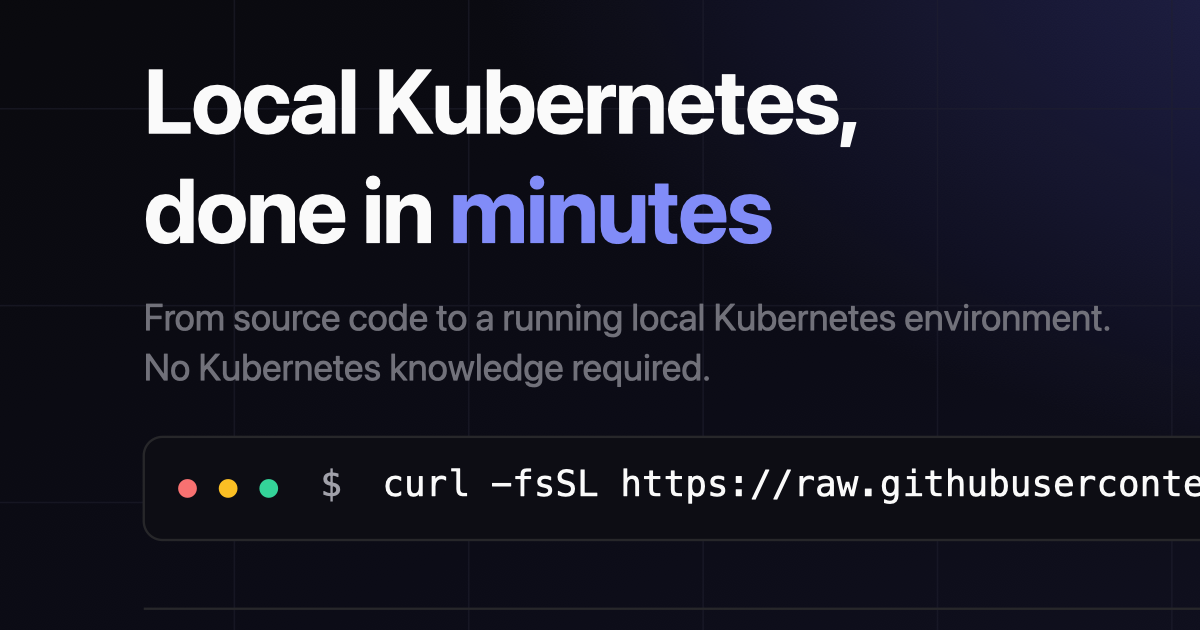
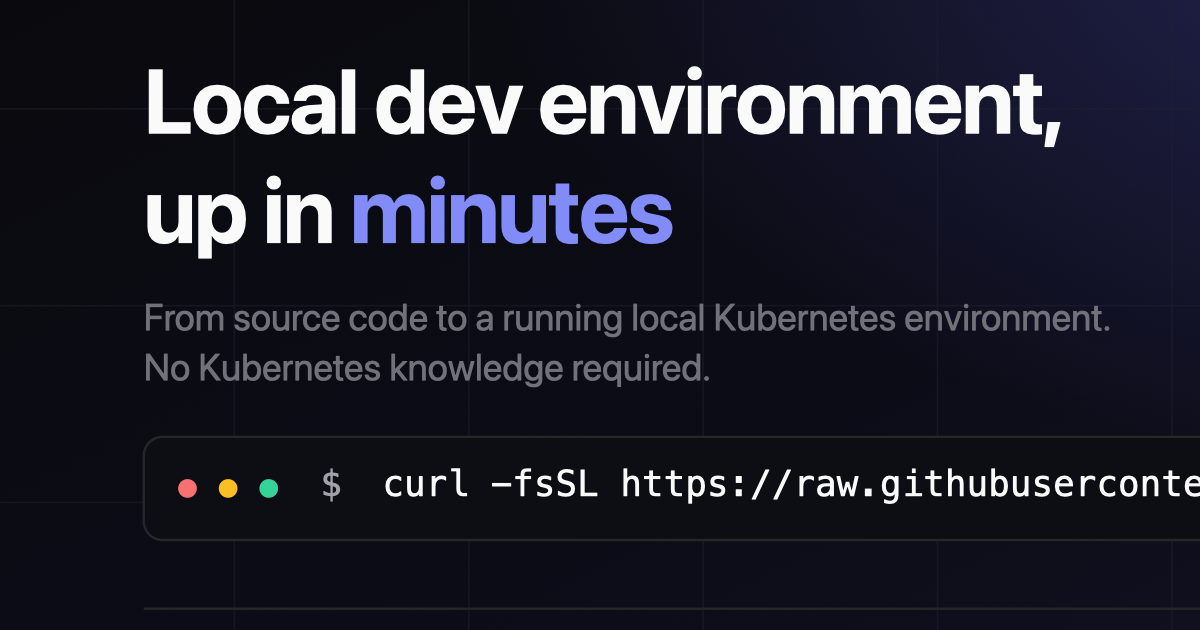
fix: improve copies and presence

Changed region(s): [[0.3083, 0.0905, 0.8942, 0.2413], [0.1233, 0.2714, 0.6475, 0.4222]]

diff --git a/docs/index.html b/docs/index.html
@@ -4,29 +4,29 @@
 <head>
   <meta charset="UTF-8">
   <meta name="viewport" content="width=device-width, initial-scale=1.0">
-  <title>Kustron — Local Kubernetes, done in minutes</title>
+  <title>Kustron | Local dev environment, up in minutes</title>
   <link rel="canonical" href="https://itsmunim.github.io/kustron/">
   <meta name="description"
-    content="Go from source code to a running local Kubernetes environment in minutes. No Kubernetes knowledge required.">
+    content="Define your apps in one file. Kustron spins up a local Kubernetes cluster, builds, and deploys them. No Kubernetes knowledge required.">
   <meta name="theme-color" content="#09090b">
 
   <!-- Open Graph (Facebook, LinkedIn, Discord, iMessage) -->
   <meta property="og:type" content="website">
   <meta property="og:site_name" content="Kustron">
   <meta property="og:url" content="https://itsmunim.github.io/kustron/">
-  <meta property="og:title" content="Kustron — Local Kubernetes, done in minutes">
-  <meta property="og:description" content="Go from source code to a running local Kubernetes environment in minutes. No Kubernetes knowledge required.">
+  <meta property="og:title" content="Kustron | Local dev environment, up in minutes">
+  <meta property="og:description" content="Define your apps in one file. Kustron spins up a local Kubernetes cluster, builds, and deploys them. No Kubernetes knowledge required.">
   <meta property="og:image" content="https://itsmunim.github.io/kustron/og-preview.jpg">
   <meta property="og:image:width" content="1200">
   <meta property="og:image:height" content="630">
-  <meta property="og:image:alt" content="Kustron — Local Kubernetes, done in minutes">
+  <meta property="og:image:alt" content="Kustron | Local dev environment, up in minutes">
 
   <!-- Twitter / X -->
   <meta name="twitter:card" content="summary_large_image">
-  <meta name="twitter:title" content="Kustron — Local Kubernetes, done in minutes">
-  <meta name="twitter:description" content="Go from source code to a running local Kubernetes environment in minutes. No Kubernetes knowledge required.">
+  <meta name="twitter:title" content="Kustron | Local dev environment, up in minutes">
+  <meta name="twitter:description" content="Define your apps in one file. Kustron spins up a local Kubernetes cluster, builds, and deploys them. No Kubernetes knowledge required.">
   <meta name="twitter:image" content="https://itsmunim.github.io/kustron/og-preview.jpg">
-  <meta name="twitter:image:alt" content="Kustron — Local Kubernetes, done in minutes">
+  <meta name="twitter:image:alt" content="Kustron | Local dev environment, up in minutes">
 
   <link rel="icon" type="image/svg+xml" href="favicon.svg">
   <link rel="apple-touch-icon" href="apple-touch-icon.png">
@@ -40,7 +40,7 @@
     "name": "Kustron",
     "applicationCategory": "DeveloperApplication",
     "operatingSystem": "macOS, Linux",
-    "description": "Go from source code to a running local Kubernetes environment in minutes. No Kubernetes knowledge required.",
+    "description": "Define your apps in one file. Kustron spins up a local Kubernetes cluster, builds, and deploys them. No Kubernetes knowledge required.",
     "url": "https://itsmunim.github.io/kustron/",
     "image": "https://itsmunim.github.io/kustron/og-preview.jpg",
     "offers": {
@@ -264,19 +264,6 @@
       border-color: var(--green);
     }
 
-    .hero-note {
-      font-size: 13px;
-      color: var(--muted);
-    }
-
-    .hero-note a {
-      color: var(--muted);
-      text-decoration: underline;
-    }
-
-    .hero-note a:hover {
-      color: var(--accent);
-    }
 
     /* ── Sections ── */
     section {
@@ -891,11 +878,10 @@
         <circle cx="12" cy="12" r="10" />
         <path d="M12 8v4l3 3" />
       </svg>
-      From zero to running in minutes
+      Works with Podman &amp; Docker
     </div>
     <h1>Local dev environment,<br>up in minutes.</h1>
-    <p>Describe single or multiple apps in one file. Kustron handles the rest — local k8s cluster, registry, build,
-      deploy.</p>
+    <p>Define your apps in one file. Kustron handles the rest: local cluster, registry, build, deploy.</p>
 
     <div>
       <div class="install-block">
@@ -905,11 +891,6 @@
       </div>
     </div>
 
-    <p class="hero-note">
-      Downloads <code>install.sh</code> for you to review, then run <code>./install.sh</code> — it asks before installing anything:
-      container runtime (podman / OrbStack / Docker Desktop), <a href="https://k3d.io" target="_blank" rel="noopener">k3d</a>, kubectl,
-      railpack, helm, and git. No Kubernetes knowledge required.
-    </p>
   </div>
 
   <hr class="divider">
@@ -918,9 +899,8 @@
   <section>
     <div class="section-inner">
       <div class="section-label">How it works</div>
-      <h2>Four commands. Real dev environment.</h2>
-      <p class="section-sub">Kustron manages a local k3d cluster with a built-in container registry. You define what to
-        run. It handles the rest.</p>
+      <h2>A real dev environment in four commands.</h2>
+      <p class="section-sub">Kustron runs a local k3d cluster with its own registry. You define what to run, it does the heavy lifting.</p>
 
       <div class="steps">
         <div class="step">
@@ -957,10 +937,8 @@
   <section>
     <div class="section-inner">
       <div class="section-label">kustron-env.yaml</div>
-      <h2>One file. Your whole environment.</h2>
-      <p class="section-sub">Apps discover each other by name. Exposed apps are available at <code
-          style="font-family: 'JetBrains Mono', monospace; font-size: 14px; color: var(--accent)">localhost:&lt;port&gt;</code>.
-      </p>
+      <h2>Your whole environment in one file.</h2>
+      <p class="section-sub">Apps find each other by name. Exposed apps are reachable at the cluster node IP.</p>
 
       <div class="yaml-window">
         <div class="yaml-titlebar">
@@ -979,7 +957,7 @@
             - name: api
               source: ./services/api      # or: git@github.com:org/repo.git
               port: 3000
-              exposed: true               # reachable at localhost:3000
+              exposed: true               # reachable at the k3d node IP
               ha: true                    # min 2 replicas, autoscales to 5
               env:
                 NODE_ENV: production
@@ -1054,7 +1032,7 @@
   <section>
     <div class="section-inner">
       <div class="section-label">Commands</div>
-      <h2>Everything you need. Nothing you don't.</h2>
+      <h2>The commands you'll actually use.</h2>
 
       <table class="cmds-table">
         <tr>
@@ -1068,7 +1046,7 @@
         <tr>
           <td><code class="cmd-code"><span class="kw">kustron</span> env up</code></td>
           <td><span class="cmd-desc">Bring up the cluster and deploy all apps from <code>kustron-env.yaml</code>.
-              Idempotent — safe to re-run.</span></td>
+              Idempotent, safe to re-run.</span></td>
         </tr>
         <tr>
           <td><code class="cmd-code"><span class="kw">kustron</span> env reload</code></td>
@@ -1186,10 +1164,8 @@
   <section>
     <div class="section-inner">
       <div class="section-label">Beyond localhost</div>
-      <h2>One VM. A real live environment.</h2>
-      <p class="section-sub">Kustron isn't just for local development. Spin it up on any cloud VM and expose your whole
-        stack — APIs, frontends, databases — to the real internet. No cluster management. No cloud-native complexity.
-      </p>
+      <h2>Your whole stack, live on one VM.</h2>
+      <p class="section-sub">Not just for local dev. Run it on any cloud VM and your stack, APIs, frontends, databases, is on the real internet. No cluster management, no k8s babysitting.</p>
 
       <div class="vm-layout">
         <div class="vm-steps">
@@ -1197,7 +1173,7 @@
             <div class="vm-step-num">1</div>
             <div class="vm-step-body">
               <h4>Get a VM</h4>
-              <p>Any Linux instance works — EC2, DigitalOcean Droplet, Hetzner Cloud, Linode. Even a $6/month box is
+              <p>Any Linux instance works: EC2, DigitalOcean Droplet, Hetzner Cloud, Linode. Even a $6/month box is
                 enough for a real multi-service stack.</p>
             </div>
           </div>
@@ -1205,7 +1181,7 @@
             <div class="vm-step-num">2</div>
             <div class="vm-step-body">
               <h4>Install prereqs &amp; add your SSH key</h4>
-              <p>Install Docker, k3d, kubectl, and kustron. Add your GitHub (or GitLab) SSH key so kustron can pull
+              <p>Install the container runtime (Docker or podman), k3d, kubectl, and kustron. Add your GitHub (or GitLab) SSH key so kustron can pull
                 private repos directly on the instance.</p>
             </div>
           </div>
@@ -1223,14 +1199,14 @@
             <div class="vm-step-num">4</div>
             <div class="vm-step-body">
               <h4>Bring it up</h4>
-              <p>One command. Cluster, registry, images, deployments — all at once.</p>
+              <p>One command: cluster, registry, images, deployments, all at once.</p>
             </div>
           </div>
           <div class="vm-step">
             <div class="vm-step-num">5</div>
             <div class="vm-step-body">
               <h4>Open the firewall &amp; share the URL</h4>
-              <p>Allow the exposed ports in your security group (AWS) or firewall rules. That's it — your stack is live
+              <p>Allow the exposed ports in your security group (AWS) or firewall rules. That's it, your stack is live
                 at <code
                   style="font-family: 'JetBrains Mono', monospace; font-size: 12px; color: var(--accent)">&lt;vm-ip&gt;:&lt;port&gt;</code>.
               </p>
@@ -1240,7 +1216,7 @@
 
         <div>
           <div class="vm-diagram">
-            <div class="vm-diagram-title">Your VM — 1.2.3.4</div>
+            <div class="vm-diagram-title">Your VM: 1.2.3.4</div>
             <div class="vm-box">
               <div class="vm-box-label">kustron environment</div>
               <div class="vm-services">
@@ -1274,8 +1250,7 @@
             <span class="vm-callout-icon">🔒</span>
             <span>Only open ports you intend to expose. Internal services like <code
                 style="font-family: 'JetBrains Mono', monospace; font-size: 12px;">postgres</code> and <code
-                style="font-family: 'JetBrains Mono', monospace; font-size: 12px;">redis</code> stay internal — never
-              set <code style="font-family: 'JetBrains Mono', monospace; font-size: 12px;">exposed: true</code> on
+                style="font-family: 'JetBrains Mono', monospace; font-size: 12px;">redis</code> stay internal. Never
               them.</span>
           </div>
         </div>
@@ -1292,7 +1267,7 @@
       <div class="footer-right">
         <a href="https://github.com/itsmunim/kustron" target="_blank" rel="noopener">GitHub</a>
         <a href="https://github.com/itsmunim/kustron/issues" target="_blank" rel="noopener">Issues</a>
-        <a href="https://www.npmjs.com/package/kustron" target="_blank" rel="noopener">npm</a>
+        <a href="https://github.com/itsmunim/kustron/releases" target="_blank" rel="noopener">Releases</a>
       </div>
     </div>
   </footer>

diff --git a/ReadMe.md b/ReadMe.md
@@ -2,37 +2,37 @@
 
 [itsmunim.github.io/kustron](https://itsmunim.github.io/kustron)
 
-A single CLI tool that takes you from "I have some applications" to a fully running, locally-accessible Kubernetes environment — with no Kubernetes knowledge required.
+A single CLI that takes you from "I have some apps" to a running local Kubernetes environment. No Kubernetes knowledge required.
 
-Think of it as `docker-compose` for Kubernetes. You define your apps in a `kustron-env.yaml` file, run `kustron env up`, and everything is built, deployed, and made available on `localhost`.
+Think docker-compose, but for Kubernetes. You define your apps in a `kustron-env.yaml` file, run `kustron env up`, and everything gets built, deployed, and exposed at the cluster node IP.
 
 ---
 
 ## Why kubernetes?
 
-`k3d` is pretty lightweight, also this is more like a sandbox where you can deploy as many applications as you need. Your full stack can be up and running inside this mini cluster, and once you are done testing, you can simply tear it down. For testing applications locally, that's really powerful.
+`k3d` is lightweight, and this is basically a sandbox. You can run as many apps as you need in this mini cluster, and when you're done testing, tear it all down with one command. For testing locally, that's really powerful.
 
 ---
 
 ## Prerequisites
 
-- **Container runtime** — [Podman](https://podman.io) or Docker ([OrbStack](https://orbstack.dev) / Docker Desktop). Kustron auto-detects whichever you have and uses it for the k3d cluster and image builds.
+- **Container runtime:** [Podman](https://podman.io) or Docker ([OrbStack](https://orbstack.dev) / Docker Desktop). Kustron auto-detects whichever you have and uses it for the k3d cluster and image builds.
 
-> **Note**: We strongly recommend using `Podman` or `Orbstack`(if you are on Mac), Docker desktop takes too much CPU for some random reasons while running `k3d`.
+> **Note**: We strongly recommend Podman, or OrbStack if you're on a Mac. Docker Desktop eats CPU for no good reason while running k3d.
 
-- **k3d** — `brew install k3d`
-- **kubectl** — `brew install kubectl`
+- **k3d:** `brew install k3d`
+- **kubectl:** `brew install kubectl`
 
 Optional:
-- **Helm** — `brew install helm` (only if you use Helm charts)
-- **Railpack** — see [railpack.io](https://railpack.io) (fallback build tool when no Dockerfile exists)
-- **Git** — usually pre-installed
+- **Helm:** `brew install helm` (only if you use Helm charts)
+- **Railpack:** see [railpack.io](https://railpack.io) (fallback build tool when no Dockerfile exists)
+- **Git:** usually pre-installed
 
 ---
 
 ## Installation
 
-Kustron is installed with a single script. It checks what you already have, asks before installing anything (podman / OrbStack / Docker Desktop, k3d, kubectl, railpack, helm, git), then builds Kustron and puts a `kustron` command on your PATH.
+One script installs everything. It checks what you already have, asks before installing anything (podman / OrbStack / Docker Desktop, k3d, kubectl, railpack, helm, git), then builds Kustron and puts a `kustron` command on your PATH.
 
 ```bash
 # recommended: download the installer, review it, then run it
@@ -53,13 +53,13 @@ What it asks for, and what happens if you say no:
 | Prompt | Required? | If you say no |
 |---|---|---|
 | Install podman? (podman / OrbStack / Docker Desktop must be present) | yes | asks for OrbStack / Docker Desktop, then aborts if none installed |
-| Install k3d? (if not installed, kustron will not work) | yes | aborts — kustron cannot create a cluster without k3d |
+| Install k3d? (if not installed, kustron will not work) | yes | aborts; kustron cannot create a cluster without k3d |
 | Install kubectl? | yes | aborts |
 | Install railpack? (builds images when there's no Dockerfile) | no | apps with a Dockerfile still build fine |
 | Install helm? (Helm charts only) | no | helm apps are skipped |
 | Install git? (git-URL sources only) | no | `source: <git-url>` apps are skipped |
 
-The installer is idempotent — re-running it skips what's already installed and just rebuilds Kustron.
+The installer is idempotent. Re-run it and it skips whatever's already installed and just rebuilds Kustron.
 
 ---
 
@@ -81,7 +81,7 @@ Your app will be built, pushed to a local registry, and deployed into a k3d Kube
 
 ## kustron-env.yaml
 
-The central primitive. Works like `docker-compose.yml` but targets a real local Kubernetes cluster.
+The one file that defines everything. Like `docker-compose.yml`, but it targets a real local Kubernetes cluster.
 
 ```yaml
 config:
@@ -93,7 +93,7 @@ apps:
     source: ./services/api              # local path OR git@github.com:user/repo.git
     port: 3000
     healthcheck: /health
-    exposed: true                       # accessible at localhost:3000
+    exposed: true                       # exposed at the k3d node IP (printed in the summary)
     replicas: 1
     ha: false                           # min 2 / max 5 / cpu 90% / mem 80%
     env:
@@ -135,7 +135,7 @@ Run `kustron env show-spec` for a full annotated schema reference.
 | `env` | Creates a ConfigMap for `source` and `image`; for `helm` values are passed as `--set` |
 | `exposed: true` | Service becomes `NodePort` type, reachable at the k3d node IP; requires `port` |
 | `helm.selector` | Required when `helm` app has `exposed: true`; must match the chart's pod labels |
-| `name` | Becomes the Kubernetes Service name — other apps reach it at `http://<name>:<port>` |
+| `name` | Becomes the Kubernetes Service name; other apps reach it at `http://<name>:<port>` |
 | `port: PORT` | The string `PORT` is treated as an unset placeholder; validation fails with a clear message |
 
 ---
@@ -156,10 +156,10 @@ Run `kustron env show-spec` for a full annotated schema reference.
 
 `kustron env up` reconciles your local environment to the desired state in `kustron-env.yaml`. Running it repeatedly is a no-op when nothing changed:
 
-- **Cluster** — if `kustron` already exists and is running, it is not touched. If it exists but is stopped, it is started. If it does not exist, it is created.
-- **kubectl access** — the k3d kubeconfig and context are merged every run (idempotent), so `env up` never fails on a missing context.
-- **Registry** — the in-cluster registry is ensured every run; a pre-existing cluster without one is wired up automatically.
-- **Images** — source apps are tagged with a **content hash** (`<registry>/<app>:<sha>`), not a timestamp. Unchanged source produces the same tag, the build is skipped, and the deployment manifest applies as a no-op. Change the source and the next `env up` builds and rolls out a new version.
+- **Cluster:** if `kustron` already exists and is running, it is not touched. If it exists but is stopped, it is started. If it does not exist, it is created.
+- **kubectl access:** the k3d kubeconfig and context are merged every run (idempotent), so `env up` never fails on a missing context.
+- **Registry:** the in-cluster registry is ensured every run; a pre-existing cluster without one is wired up automatically.
+- **Images:** source apps are tagged with a **content hash** (`<registry>/<app>:<sha>`), not a timestamp. Unchanged source produces the same tag, the build is skipped, and the deployment manifest applies as a no-op. Change the source and the next `env up` builds and rolls out a new version.
 - **YAML-only changes** (env vars, replicas, exposure) are picked up by `kubectl apply` even when the image tag is unchanged.
 
 **Tip:** After editing `kustron-env.yaml` (manually or via `apps add/remove`), run `kustron env reload` to apply changes.
@@ -168,11 +168,11 @@ Run `kustron env show-spec` for a full annotated schema reference.
 
 `kustron env up` waits for each deployment to become **Ready**, then prunes old failed ReplicaSets so `kubectl get pods` stays clean.
 
-A pod becomes Ready when its containers are Running **and** its readiness probe passes (if one is declared). Healthchecks are opt-in to keep rollouts deterministic — no declared healthcheck means no probes, so anything that starts successfully is Ready immediately:
+A pod becomes Ready when its containers are Running **and** its readiness probe passes (if one is declared). Healthchecks are opt-in to keep rollouts deterministic: no declared healthcheck means no probes, so anything that starts successfully is Ready immediately:
 
 | `healthcheck` value | Probe | Use for |
 |---|---|---|
-| *(omitted)* or `none` | none — Ready as soon as the container runs | everything, incl. services that don't speak HTTP |
+| *(omitted)* or `none` | none: Ready as soon as the container runs | everything, incl. services that don't speak HTTP |
 | `tcp` | TCP socket on `port` | **redis**, postgres, mysql, memcached, ... |
 | `/health` (any path) | HTTP GET on that path | web apps with a health endpoint |
 
@@ -183,7 +183,7 @@ apps:
   - name: kivo-redis
     image: redis:7
     port: 6379
-    healthcheck: tcp   # or omit entirely — redis doesn't speak HTTP, so an HTTP probe would never pass
+    healthcheck: tcp   # or omit entirely; redis doesn't speak HTTP, so an HTTP probe would never pass
 ```
 
 A wrong healthcheck does not hang forever anymore: `env up` fails fast with the pod details on `ImagePullBackOff` / `CrashLoopBackOff`, and only warns when a rollout legitimately takes longer than 150s while pods are running.
@@ -234,7 +234,7 @@ Exposed apps get a `NodePort` service on the k3d node, so the VM's public IP wor
 
 1. **Cluster:** k3d creates a lightweight local Kubernetes cluster with a built-in container registry
 2. **Build:** Source apps are built with the detected container runtime (if `Dockerfile` exists) or Railpack (fallback)
-3. **Push:** Images are pushed to the local `k3d-kustron-registry:5000`
+3. **Push:** Images are pushed to the local registry (`localhost:5000`), referenced in-cluster as `kustron-registry:5000`
 4. **Deploy:** Kubernetes manifests (ConfigMap, Deployment, Service, HPA) are generated and applied
 5. **Expose:** Apps with `exposed: true` get a `NodePort` service reachable at the k3d node IP
 
